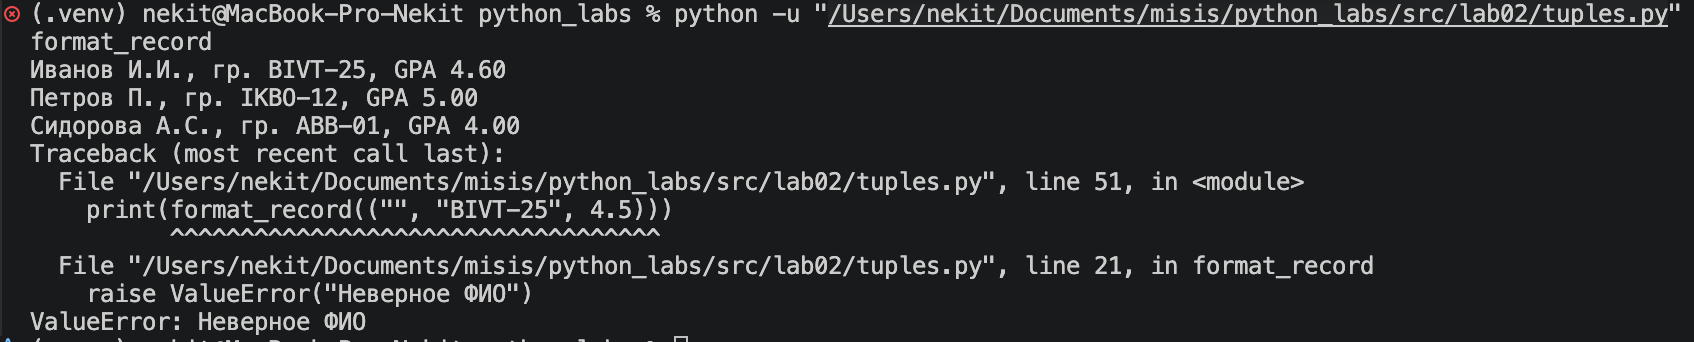
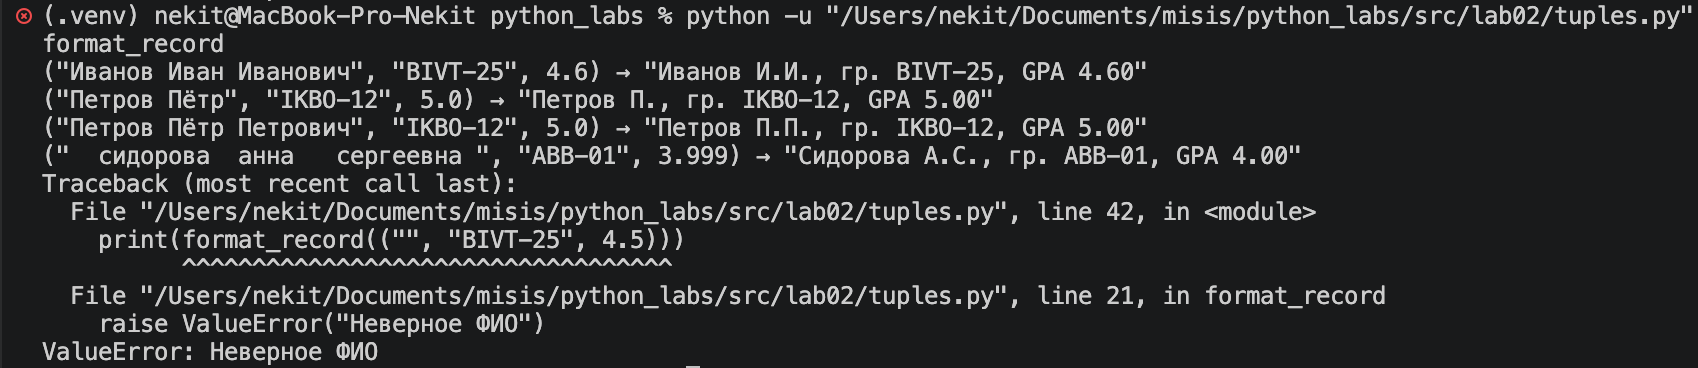
Добавил лабораторную работу 2

diff --git a/src/lab02/tuples.py b/src/lab02/tuples.py
@@ -35,7 +35,8 @@ def format_record(rec: tuple[str, str, float]) -> str:
 #тест кейс
 if __name__ == "__main__":
     print("format_record")
-    print(format_record(("Иванов Иван Иванович", "BIVT-25", 4.6)))
-    print(format_record(("Петров Пётр", "IKBO-12", 5.0)))
-    print(format_record(("  сидорова  анна   сергеевна ", "ABB-01", 3.999)))
+    print(f'("Иванов Иван Иванович", "BIVT-25", 4.6) → "{format_record(("Иванов Иван Иванович", "BIVT-25", 4.6))}"')
+    print(f'("Петров Пётр", "IKBO-12", 5.0) → "{format_record(("Петров Пётр", "IKBO-12", 5.0))}"')
+    print(f'("Петров Пётр Петрович", "IKBO-12", 5.0) → "{format_record(("Петров Пётр Петрович", "IKBO-12", 5.0))}"')
+    print(f'("  сидорова  анна   сергеевна ", "ABB-01", 3.999) → "{format_record(("  сидорова  анна   сергеевна ", "ABB-01", 3.999))}"')
     print(format_record(("", "BIVT-25", 4.5)))
